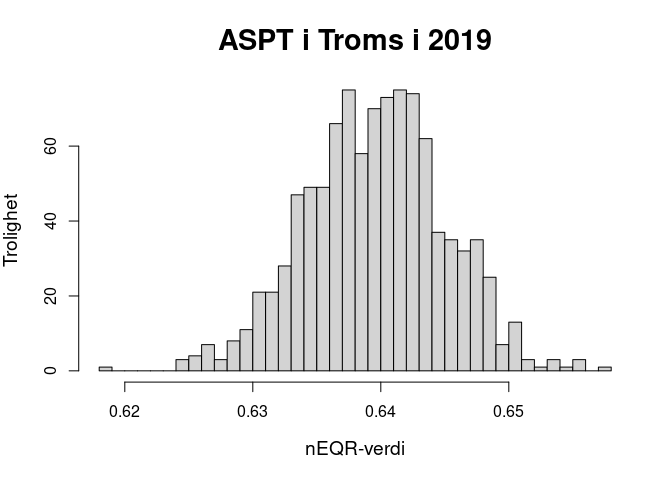
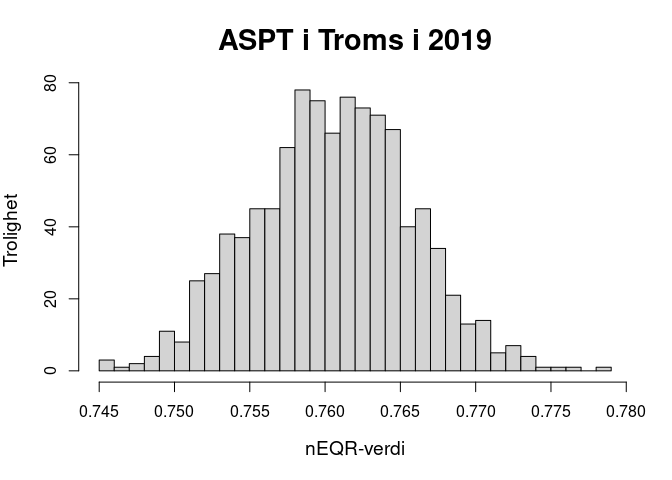
the example markdown file is updated

diff --git a/VF-NIeks.md b/VF-NIeks.md
@@ -1,5 +1,3 @@
-# Dataflyt vannforskrift–naturindeks: eksempel
-
 -   <a href="#forberedelser" id="toc-forberedelser">Forberedelser</a>
 -   <a href="#nødvendig-informasjon-om-vannforekomster"
     id="toc-nødvendig-informasjon-om-vannforekomster">Nødvendig informasjon
@@ -176,13 +174,18 @@ Filnavnet oppgis som parameter når dataene leses inn i R:
 
     ## 
     ## OBS: For 3 innsjøer var høyden over havet angitt å være negativ. Disse ble satt til <NA>.
+
     ## 
     ## OBS: For 4 innsjøer var det norske arealet angitt å være negativ. Disse ble satt til <NA>.
+
     ## 
     ## OBS: For 1 innsjøer var tilsigsfeltet angitt å være negativ. Disse ble satt til <NA>.
+
     ## 
-    ## OBS: For 589 innsjøer var deres tilsigsfelt angitt å være mindre enn deres areal. For disse ble tilsigsfeltet satt til
-    ##      arealet.
+    ## OBS: For 589 innsjøer var deres tilsigsfelt angitt å være mindre enn deres areal. For disse ble tilsigsfeltet satt
+
+    ## 
+    ##      til arealet.
 
 Utmatinga forteller om mindre avvik fra det man kunne forvente. Men
 ingen av dem var kritisk for den videre analysen. I så fall hadde
@@ -289,14 +292,11 @@ excel-regneark:
     ## 5 BAPO  Basisovervåking - påvirka områder    -1
     ## 6 BARE Basisovervåking - referanseforhold     3
 
-Til slutt må det lastes inn en liste over kommuner og fylker.
-Informasjonen må være lagret i to excel-regneark som heter
-“**knr.xlsx**” og “**fnr.xlsx**”.
-
-    source("AdminEnh.R")
-
-Det tas forbehold om at enkelte målinger kan bli tilordna feil kommune,
-i tilfeller der målinger ble tatt i en sammenslått kommune og
+Til slutt trengs det en liste over kommune- og fylkesnummer og -navn.
+Denne informasjonen leses inn automatisk, gitt at den er lagra i to
+excel-regneark som heter “**knr.xlsx**” og “**fnr.xlsx**”. Det tas
+forbehold om at enkelte målinger kan bli tilordna feil kommune, i
+tilfeller der målinger ble tatt i en sammenslått kommune og
 tilbakedateres til et tidspunkt før sammenslåinga.
 
 ## Målinger fra vannmiljø-databasen
@@ -352,7 +352,7 @@ bør man velge en større verdi (f.eks. 100000).
 Funksjonen som gjennomfører analysen, heter [`fraVFtilNI`](Dbehandl.R)
 (“fra vannforkrift til naturindeks”). Den har mange flere parametere enn
 de som vises under, som tillater ulike justeringer som er [forklart
-her](forklar.md). De første fire parametrene må alltid oppgis. Resten
+her](forklar.md). De første fem parametrene må alltid oppgis. Resten
 trenger man bare å oppgi om man ønsker å endre på standardinnstillingene
 (som også er [forklart her](forklar.md)).
 
@@ -405,12 +405,18 @@ trenger man bare å oppgi om man ønsker å endre på standardinnstillingene
     ## 
     ## OBS: 22 målinger ble ekskludert fordi de ble foretatt i en vanntype som parameteren ikke kan brukes i.
     ## 
+    ## OBS: For rapportåret 1990 foreligger bare målinger fra 7 vannforekomster. Det er dessverre for få, og denne rapportperioden
+    ##      må derfor utgå.
+    ## 
+    ## OBS: For rapportåret 2000 foreligger bare målinger fra 15 vannforekomster. Det er dessverre for få, og denne rapportperioden
+    ##      må derfor utgå.
+    ## 
     ## Dataene som inngår i modelltilpasninga inneholder dermed
-    ## - 15149 målinger fra
+    ## - 15021 målinger fra
     ## - 4813 vannlokaliteter i
     ## - 2900 vannforekomster i
     ## - 19 fylker
-    ## - mellom 1984 og 2023.
+    ## - mellom 2000 og 2023.
     ## 
     ## 
     ##    Skalering til mEQR-verdier
@@ -418,11 +424,12 @@ trenger man bare å oppgi om man ønsker å endre på standardinnstillingene
     ## 
     ## Oppsummering av variabelverdier før skalering:
     ##  minimum ned. kv.   median gj.snitt øvr. kv. maksimum 
-    ##    0.000    5.545    6.143    5.988    6.600    9.250 
-    ## Oppsummering av variabelverdier etter skalering:
+    ##    0.000    5.556    6.150    5.998    6.600    9.250 
     ## 
+    ## Oppsummering av variabelverdier etter skalering:
     ##  minimum ned. kv.   median gj.snitt øvr. kv. maksimum 
-    ##   0.0000   0.4864   0.6357   0.6223   0.7500   1.1516 
+    ##   0.0000   0.4889   0.6375   0.6241   0.7500   1.1516 
+    ## 
     ## 
     ##    Modelltilpasning til målingene
     ##    ==============================
@@ -439,9 +446,9 @@ trenger man bare å oppgi om man ønsker å endre på standardinnstillingene
     ## * Aktivitet: KALK og OEKF har blitt slått sammen.
     ## * Aktivitet: GRUV og VASS har blitt slått sammen.
     ## * Aktivitet: BIOM og RELV har blitt slått sammen.
-    ## * Aktivitet: GRUV+VASS og KALL har blitt slått sammen.
     ## * Aktivitet: AREA og FORS har blitt slått sammen.
     ## * Aktivitet: DEPO+TILT og KAVE har blitt slått sammen.
+    ## * Aktivitet: GRUV+VASS og KALL har blitt slått sammen.
     ## * Aktivitet: BAPO+BARE og KALK+OEKF har blitt slått sammen.
     ## * Aktivitet: GRUV+KALL+VASS og JRBN har blitt slått sammen.
     ## * Aktivitet: DRIK+KART+KOMM og INDU har blitt slått sammen.
@@ -471,48 +478,44 @@ trenger man bare å oppgi om man ønsker å endre på standardinnstillingene
     ## 
     ## Weighted Residuals:
     ##      Min       1Q   Median       3Q      Max 
-    ## -1.07497 -0.03467 -0.00306  0.02795  1.06369 
+    ## -1.07491 -0.03448 -0.00296  0.02803  1.06385 
     ## 
     ## Coefficients:
     ##                              Estimate Std. Error t value Pr(>|t|)    
-    ## (Intercept)                  0.340721   0.422050   0.807   0.4195    
-    ## per2000                      0.520116   0.423857   1.227   0.2198    
-    ## per2010                      0.750875   0.421415   1.782   0.0748 .  
-    ## per2014                      0.437619   0.421578   1.038   0.2993    
-    ## per2019                      0.535027   0.421367   1.270   0.2042    
-    ## per2024                      0.414380   0.421416   0.983   0.3255    
-    ## rar                         -0.095175   0.109686  -0.868   0.3856    
-    ## aktANNE+GRUV+JRBN+KALL+VASS -0.138313   0.015113  -9.152  < 2e-16 ***
-    ## aktAREA+FORS                -0.260693   0.017643 -14.776  < 2e-16 ***
-    ## aktBAPO+BARE+KALK+OEKF      -0.214242   0.017083 -12.541  < 2e-16 ***
-    ## aktBIOM+ELVE+RELV           -0.068053   0.015666  -4.344 1.41e-05 ***
-    ## aktDEPO+KAVE+PROB+TILT      -0.120223   0.015838  -7.591 3.37e-14 ***
-    ## aktDRIK+INDU+KART+KOMM      -0.304626   0.016914 -18.010  < 2e-16 ***
-    ## aktLANG                      0.067530   0.017018   3.968 7.28e-05 ***
-    ## sonL                         0.008867   0.010105   0.878   0.3802    
-    ## sonM                         0.065829   0.010233   6.433 1.29e-10 ***
-    ## stø2+3                       0.024977   0.003828   6.525 7.03e-11 ***
-    ## stø4+5                      -0.002545   0.006709  -0.379   0.7045    
-    ## alk2                        -0.036184   0.005473  -6.611 3.94e-11 ***
-    ## alk3                        -0.082331   0.006080 -13.541  < 2e-16 ***
-    ## alk4                        -0.259091   0.008783 -29.501  < 2e-16 ***
-    ## alk5+6+7                     0.030197   0.007065   4.274 1.93e-05 ***
-    ## hum1                         0.011271   0.015952   0.707   0.4799    
-    ## hum2                        -0.024818   0.015439  -1.607   0.1080    
-    ## hum3                        -0.189862   0.020991  -9.045  < 2e-16 ***
-    ## hum4                        -0.023652   0.018861  -1.254   0.2098    
-    ## tur3                        -0.151728   0.012335 -12.301  < 2e-16 ***
-    ## per2000:rar                  0.086281   0.111963   0.771   0.4409    
-    ## per2010:rar                  0.109437   0.109708   0.998   0.3185    
-    ## per2014:rar                  0.067978   0.109787   0.619   0.5358    
-    ## per2019:rar                  0.113002   0.109713   1.030   0.3030    
-    ## per2024:rar                  0.080597   0.109713   0.735   0.4626    
+    ## (Intercept)                  1.092171   0.026182  41.714  < 2e-16 ***
+    ## per2014                     -0.313417   0.016799 -18.657  < 2e-16 ***
+    ## per2019                     -0.215850   0.010566 -20.430  < 2e-16 ***
+    ## per2024                     -0.336506   0.012082 -27.853  < 2e-16 ***
+    ## rar                          0.014214   0.002218   6.410 1.50e-10 ***
+    ## aktANNE+GRUV+JRBN+KALL+VASS -0.138499   0.015142  -9.147  < 2e-16 ***
+    ## aktAREA+FORS                -0.259310   0.017703 -14.647  < 2e-16 ***
+    ## aktBAPO+BARE+KALK+OEKF      -0.214226   0.017115 -12.517  < 2e-16 ***
+    ## aktBIOM+ELVE+RELV           -0.068021   0.015696  -4.334 1.48e-05 ***
+    ## aktDEPO+KAVE+PROB+TILT      -0.120066   0.015868  -7.566 4.06e-14 ***
+    ## aktDRIK+INDU+KART+KOMM      -0.304540   0.016945 -17.972  < 2e-16 ***
+    ## aktLANG                      0.067808   0.017050   3.977 7.01e-05 ***
+    ## sonL                         0.008552   0.010129   0.844    0.399    
+    ## sonM                         0.065392   0.010260   6.374 1.90e-10 ***
+    ## stø2+3                       0.024763   0.003838   6.452 1.13e-10 ***
+    ## stø4+5                      -0.002654   0.006722  -0.395    0.693    
+    ## alk2                        -0.036015   0.005485  -6.567 5.32e-11 ***
+    ## alk3                        -0.082393   0.006092 -13.525  < 2e-16 ***
+    ## alk4                        -0.258683   0.008802 -29.390  < 2e-16 ***
+    ## alk5+6+7                     0.030251   0.007082   4.272 1.95e-05 ***
+    ## hum1                         0.011156   0.015982   0.698    0.485    
+    ## hum2                        -0.025128   0.015468  -1.624    0.104    
+    ## hum3                        -0.189850   0.021030  -9.028  < 2e-16 ***
+    ## hum4                        -0.023303   0.018900  -1.233    0.218    
+    ## tur3                        -0.151687   0.012359 -12.273  < 2e-16 ***
+    ## per2014:rar                 -0.041483   0.005222  -7.944 2.10e-15 ***
+    ## per2019:rar                  0.003632   0.003325   1.092    0.275    
+    ## per2024:rar                 -0.028780   0.003326  -8.654  < 2e-16 ***
     ## ---
     ## Signif. codes:  0 '***' 0.001 '**' 0.01 '*' 0.05 '.' 0.1 ' ' 1
     ## 
-    ## Residual standard error: 0.127 on 15117 degrees of freedom
-    ## Multiple R-squared:  0.348,  Adjusted R-squared:  0.3467 
-    ## F-statistic: 260.3 on 31 and 15117 DF,  p-value: < 2.2e-16
+    ## Residual standard error: 0.1272 on 14993 degrees of freedom
+    ## Multiple R-squared:  0.3488, Adjusted R-squared:  0.3476 
+    ## F-statistic: 297.4 on 27 and 14993 DF,  p-value: < 2.2e-16
     ## 
     ## 
     ##    Ekstrapolering til ikke-målte vannforekomster
@@ -520,7 +523,7 @@ trenger man bare å oppgi om man ønsker å endre på standardinnstillingene
     ## 
     ## Det fins 23343 typifiserte elvevannforekomster.
     ## Av disse har 23095 vannforekomster en vanntype som parameteren ASPT er definert for.
-    ## Det foreligger altså målinger for 13% av de relevante vannforekomstene (2900 av 23095).
+    ## Det foreligger altså målinger for 13 % av de relevante vannforekomstene (2900 av 23095).
     ## 
     ## 
     ##    Simulering
@@ -538,7 +541,7 @@ Her kommer noen eksempler på visualiseringer av resultatene. For det
 første kan man plotte den simulerte sannsynlighetsfordelinga som et
 histogram, f.eks. slik:
 
-    hist(utmating$fylke["1900", 6, ], 
+    hist(utmating$fylke["1900", "2019", ], 
          breaks=36, 
          main="ASPT i Troms i 2019", 
          xlab="nEQR-verdi", 
@@ -551,6 +554,7 @@ De fylkesvise gjennomsnittsresultatene kan vises på kart:
 
     library(raster)
     load("norge.map")
+    source("adminenh.R")
     plot(Norge.fylker, asp = 2.1)
     text(6, 70, "ASPT", cex = 2.4, font = 1.6)
     text(6, 69, "fylkesvis", cex = 0.96)
